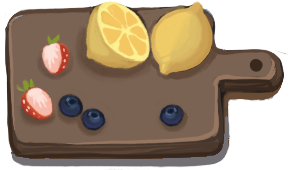
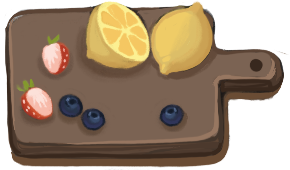
Kitchen pieces keep their own painted shadows; the new shadow stays on the table items only

Changed region(s): [[0.031, 0.6765, 0.8069, 1.0]]

diff --git a/Docs/tools/report_page/index.html b/Docs/tools/report_page/index.html
@@ -76,19 +76,19 @@ h3 small{font-weight:600;color:var(--soft);font-size:13px;margin-left:6px}
 <div class="who p1"><h3>You</h3>
 <p><b>Test build 36</b> (TestFlight, version 26.11.29): arrange the kitchen in the morning; try a red piece and see Ready go off. The new choux plate is on the table.</p>
 <p><b>Kitchen</b> (Current): tick how the arrangement feels; the old places are back (say "build" for a new test build); the glow brush also waits.</p>
-<p><b>Shadows</b> (Q&amp;A): the one shadow at 60 % is on all items; look at the screenshots.</p>
+<p><b>Shadows</b> (Q&amp;A): the one shadow at 60 % is on the table items; the kitchen keeps its own.</p>
 <p><b>App Store page</b> (Q&amp;A): tick which improvements to make.</p></div>
 <div class="who p2"><h3>Me</h3><p><b>Choux:</b> ChatGPT's hand-drawn repaint of the four comes at 4:58 PM.</p><p><b>App Store page:</b> waiting on your ticks.</p></div>
 </div>
 
 <h2 id="qa"><span class="n">2</span>Q&amp;A</h2>
 <div class="q"><h3>You asked: one shadow for every cloth, at 60 %, on all items; show me screenshots (16 November)</h3>
-<p style="margin:6px 0"><b>Done, in the project, in no build:</b> every item's shadow is now near-black <span style="display:inline-block;width:14px;height:14px;border-radius:3px;vertical-align:-2px;border:1px solid rgba(0,0,0,.25);background:rgb(20,16,24)"></span> 20, 16, 24, see-through at 60 %. Each shadow keeps its drawn shape; only its paint changed, so it is a darker shade of whatever lies under it.</p>
+<p style="margin:6px 0"><b>Done, in the project, in no build:</b> every table item's shadow is now near-black <span style="display:inline-block;width:14px;height:14px;border-radius:3px;vertical-align:-2px;border:1px solid rgba(0,0,0,.25);background:rgb(20,16,24)"></span> 20, 16, 24, see-through at 60 %. Each shadow keeps its drawn shape; only its paint changed, so it is a darker shade of whatever lies under it.</p>
 <figure><img src="shadow_ch1.jpg" alt="The chapter 1 table before and after: the shadows of the baskets, juice, coffee station, plates and jar are now darker red on red and grey on white instead of grey-blue"></figure>
 <figure><img src="shadow_ch2.jpg" alt="The chapter 2 table before and after: the shadows of the ice cream station, waffle machine, coconuts, baskets and plates are now a darker blue and a darker cream"></figure>
-<figure><img src="shadow_kitchen.jpg" alt="The kitchen counter before and after: the cake cloth's, the board's and the juice bottle's shadows in the new paint"></figure>
 <ul>
-<li><b>Changed:</b> apples, bread, coconuts, coffee machine and cups, cookies, juice, choux plate, ice cream station, waffle machine, bin, candy jar, both flower pots; in the kitchen the cake cloth, the board and the juice bottle. About 90 pictures.</li>
+<li><b>Changed:</b> apples, bread, coconuts, coffee machine and cups, cookies, juice, choux plate, ice cream station, waffle machine, bin, candy jar, both flower pots. About 90 pictures.</li>
+<li><b>Kitchen:</b> untouched, as you said. The cake cloth, the board and the juice bottle have their own painted shadows back.</li>
 <li><b>Not changed:</b> the cake stand's shadow on its own napkin (it is painted into the napkin's checks) and the hen's.</li>
 <li><b>How it was before:</b> the kitchen's shadows were solid paint you picked per surface (brown on the wood, grey in the cabinet); the table's were grey-blue paint, which stayed grey-blue on red.</li>
 <li>The old pictures are kept, so this can be undone in one step.</li>
